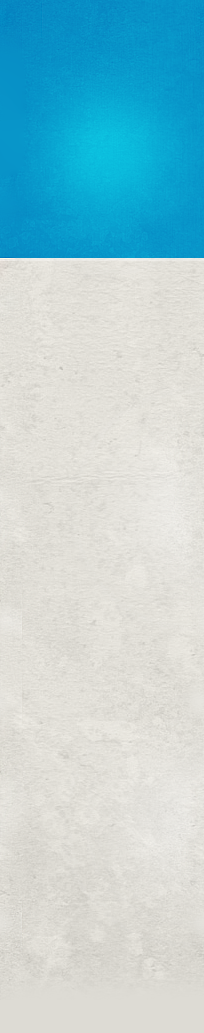
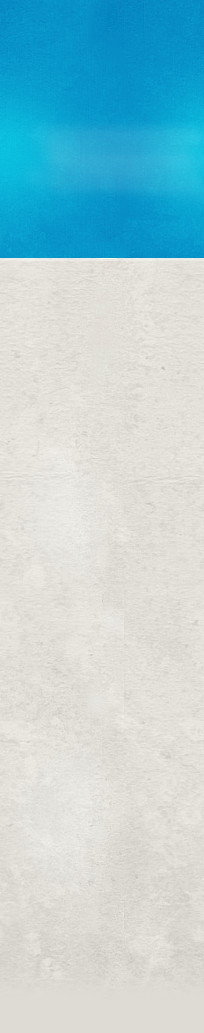
header bug and background change

Changed region(s): [[0.0, 0.0929, 1.0, 0.2168]]

diff --git a/header.php b/header.php
@@ -6,7 +6,7 @@
 	<link rel="stylesheet" href="style.css" type="text/css" media="screen">
 	<meta http-equiv="Content-Type" content="text/html; charset=UTF-8"> 
 	<link rel="shortcut icon" href="images/template/block.png"> 
-	/* Start: Google Analytics Code */
+	<!-- Start: Google Analytics Code -->
 	<script type="text/javascript">
 	  var _gaq = _gaq || [];
 	  _gaq.push(['_setAccount', 'UA-13166299-4']);
@@ -18,7 +18,7 @@
 	  })();
 	
 	</script>
-	/* End: Google Analytics Code */
+	<!-- End: Google Analytics Code -->
 	<?php require_once("function.php"); ?>
 </head>
 <body>
